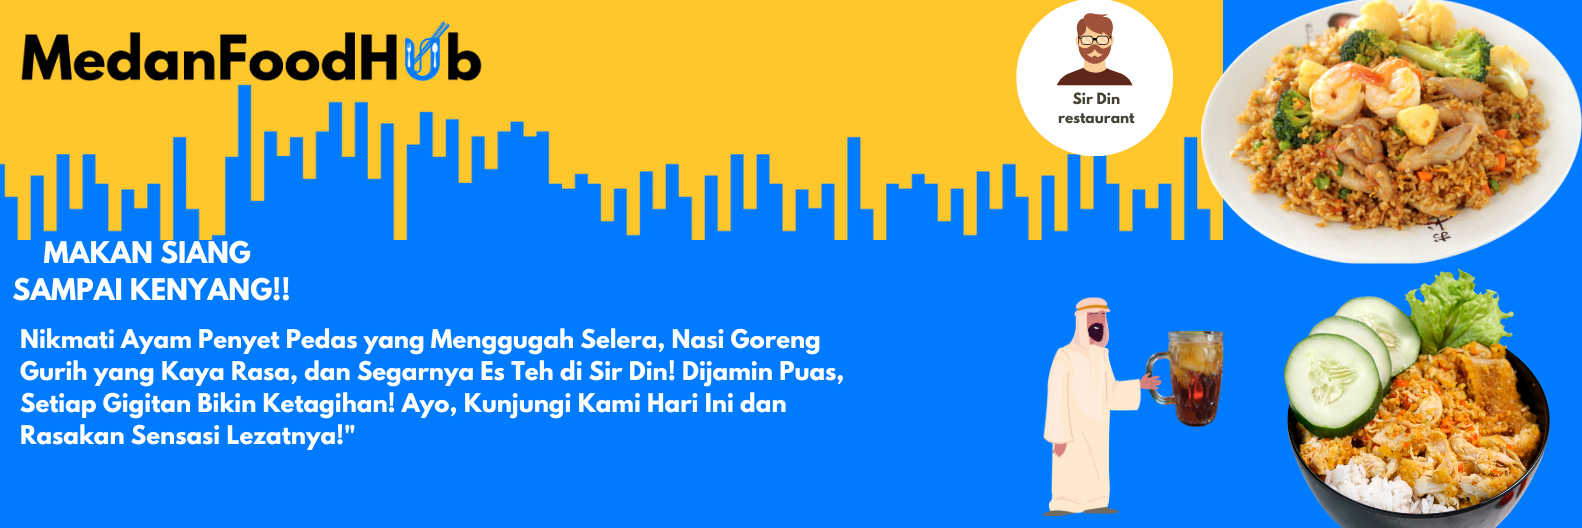
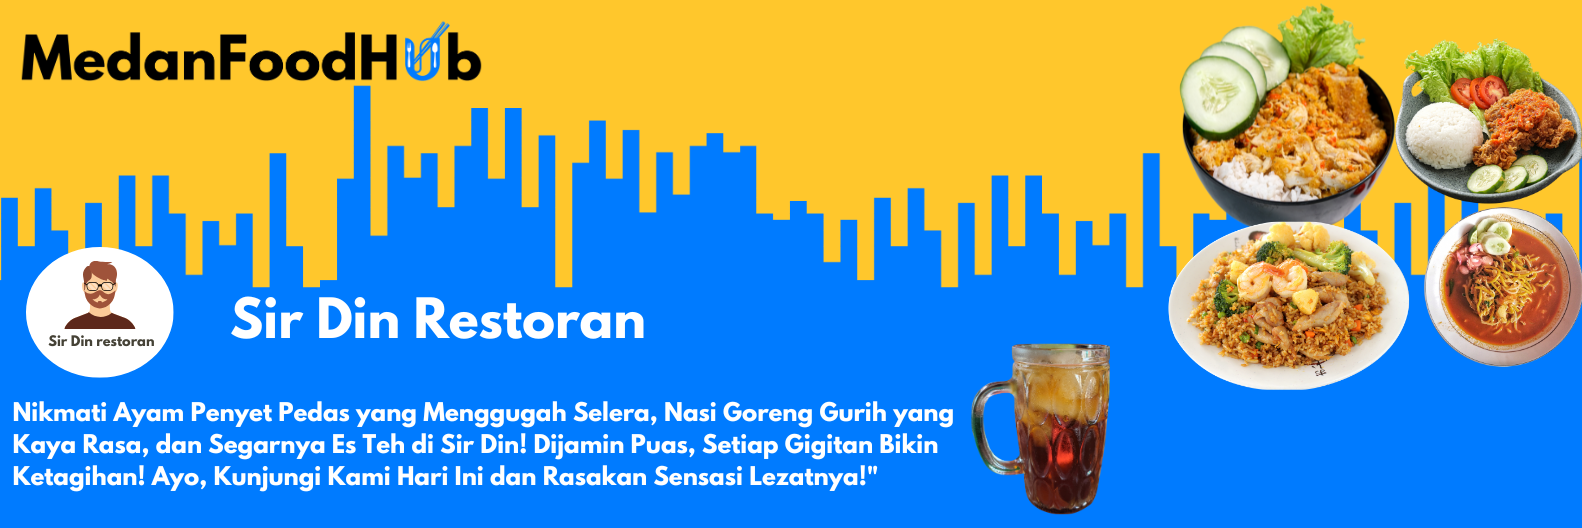
bannerterbaru

diff --git a/public/index.html b/public/index.html
@@ -3,7 +3,7 @@
 <head>
     <meta charset="UTF-8"> 
     <meta name="viewport" content="width=device-width, initial-scale=1.0">
-    <link rel="icon" href="/assets/logo.png" type="image/x-icon">
+    <link rel="icon" href="/assets/Logo/logo.png" type="image/x-icon">
     <link rel="stylesheet" href="https://cdnjs.cloudflare.com/ajax/libs/bootstrap/5.3.0/css/bootstrap.min.css">
     <link rel="stylesheet" href="https://cdn.jsdelivr.net/npm/bootstrap-icons@1.11.3/font/bootstrap-icons.min.css">
     <title>Medan Food HUB - Your Favourite Web</title>
@@ -14,7 +14,7 @@
     <header class="sticky-lg-top border shadow-sm">
     <nav class="navbar bg-body-tertiary p-2 background-color border-bottom">
         <div class="container-fluid">
-        <a class="navbar-brand ms-5 me-5"><img src="/assets/Logo/text_logo.png" alt=""></a>
+        <a class="navbar-brand ms-5 me-5"><img src="/assets/Logo/text logo.png" height="30 " alt=""></a>
         <form class="d-flex flex-fill" role="search">
             <input class="form-control ms-5 me-2" type="search" placeholder="Search" aria-label="Search">
             <button class="btn btn-outline-primary" type="submit">Search</button>
@@ -79,7 +79,7 @@
               <img src="../assets/BANNER MEDAN FOOD HUB.png" class="d-block w-100" alt="..." />
             </div>
             <div class="carousel-item">
-              <img src="../assets/2.png" class="d-block w-100" alt="..." />
+              <img src="../assets/3.png" class="d-block w-100" alt="..." />
             </div>
             <div class="carousel-item">
               <img src="../assets/3.png" class="d-block w-100" alt="..." />
